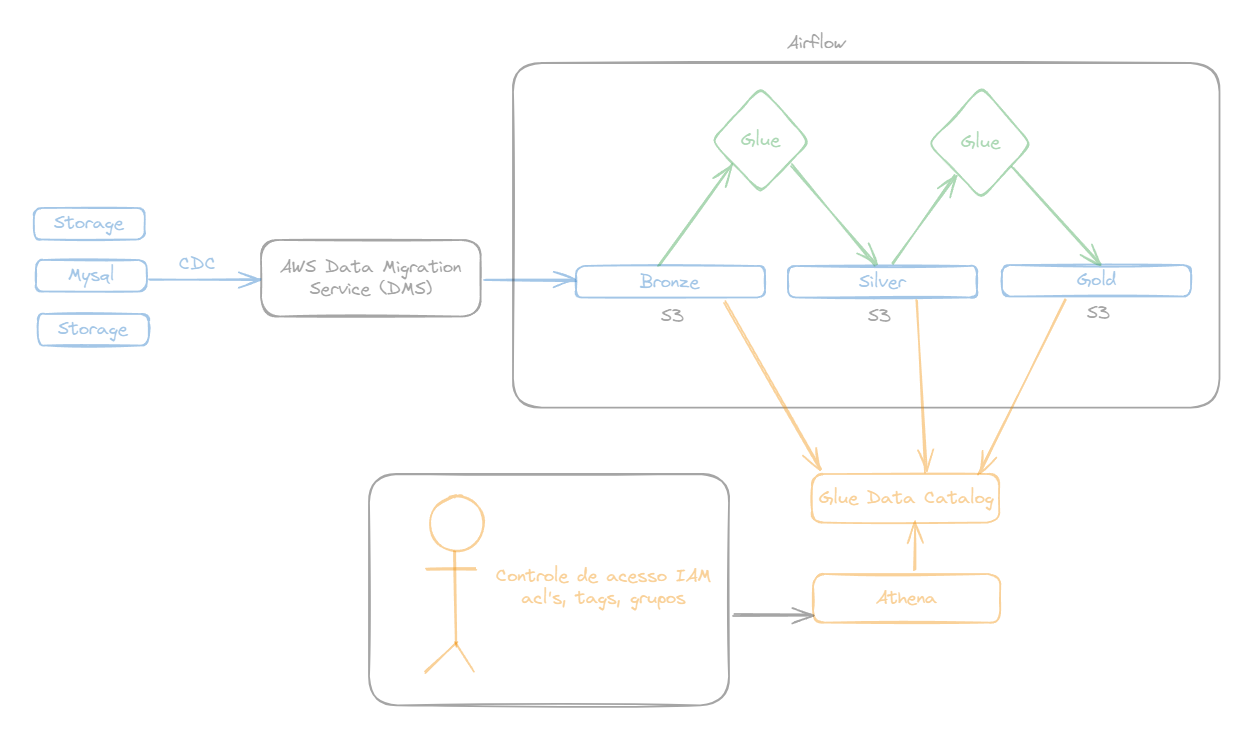
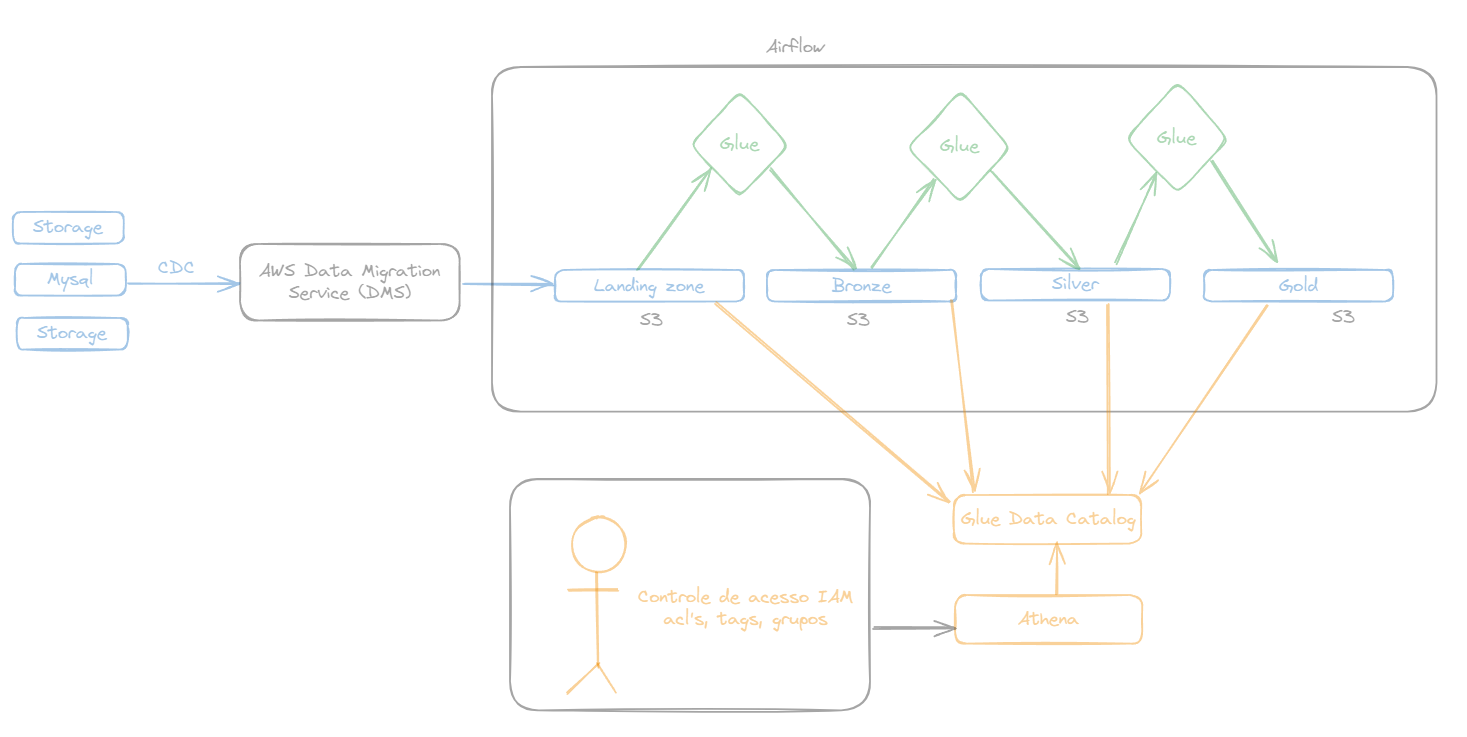
readme modificado

diff --git a/README.md b/README.md
@@ -1,162 +1,112 @@
-# Teste Prático para Engenharia de Dados
+# 🛠 Projeto de Engenharia de Dados 
 
-## Introdução
+Este projeto implementa um pipeline completo de Engenharia de Dados utilizando PySpark e serviços AWS. A arquitetura segue o modelo de **camadas (bronze, silver e gold)**, utilizando uma **Landing Zone**.
 
-O teste é destinado a avaliar as habilidades práticas como Engenheir@ de dados
-
-**Itens do teste:**
-1. ETL
-2. Análise dos dados
-3. Desenho de Arquitetura para ingestão de dados batch
-4. Implementação de um Data quality
-5. Desenvolvimento de testes unitários
-6. Infra as Code (IaC)
-
-## Fork
-Realize um fork do repositorio e após a conclusão submeta um pull request. Através do PR que as respostas serão revisadas.
-
-## Sugestão de estrutura dos arquivos de resposta
-```bash
-├── 1.ETL/
-│   └── script.py
-├── 2.AnaliseDados/
-│   └── analise.txt
-├── 3.DesenhodeArquitetura/
-│   ├── desenho.jpg
-│   └── explicacao.txt
-├── 4.DataQuality/
-│   └── script_data_quality.py
-├── 5.TesteUnitario/
-│   ├── unit_test.py
-│   └── resultados.txt
-└── 6.InfraAsCode/
-    └── script.tf
- ```
-
-## Docker
-Disponibilizamos também um docker compose para criação de um ambiente spark para desenvolvimento na própria maquina, a utilização não é obrigatória.
-
-## Desafios
-
-### 1. ETL
-
-#### Descrição
-
-Utilize o arquivo `clientes_sinteticos.csv`.
-
-Deverá ser gerado um único script que irá escrever em 2 buckets da AWS, um deles Bronze e o outro Silver.
-
-Ambos os arquivos escritos no bucket Bronze e Silver devem estar acessíveis atraves do Glue Data Catalog, o schema de cata tabela pode ser definido por você mas considere que ambas as tabelas já foram criadas(nao a necessidade de criacao). A partição física devera ser a data de processamento e o nome da particao será **anomesdia**, lembre que além da partição física será necessario criar a partição lógica na tabela.
-
-Passos:
-- Especifique um schema para o dataset.
-- Trate os nomes dos clientes para que fique todos com letra maiuscula
-- Renomeie a coluna telefone_cliente para num_telefone_cliente
-- Realize a escrita do dado no bucket s3://bucket-bronze/tabela_cliente_landing
-- Deduplique o dataset mantendo sempre somente a ultima data de atualizacao do cadastro de cada cliente 
-- Trate a coluna de telefone de modo a permitir somente valores que sigam o padrao (NN)NNNNN-NNNN os demais devem ficar nulos
-- Realize a escrita do dado no bucket s3://bucket-silver/tb_cliente
 ---
 
-### 2. Análise dos dados
+## Visão Geral
 
-Utilize o arquivo `clientes_sinteticos.csv`.
-#### Descrição
+- **Origem dos dados:** CSV iniciamente local em /datasets/clientes_sinteticos.csv que popula o S3 etlproj-landing-zone/arquivo/ via terraform
+- **Destino:** Data Lake em Amazon S3
+- **Transformação:** PySpark com AWS Glue
+- **Armazenamento:** Arquitetura em camadas (lading-zone → bronze → silver → gold)
+- **Catálogo de dados:** Crawlers + AWS Glue Data Catalog
+- **Consultas:** AWS Athena
 
-- Identifique os 5 clientes que mais sofreram atualizações na base.
-- Calcule a média de idade dos clientes.
 ---
 
-### 3. Desenho de Arquitetura
+## Etapas do Projeto
 
-#### Descrição
+### 1. `1.ETL/script.py`
+- **Objetivo:** realizar o pipeline de extração, transformação e carga.
+- Leitura do arquivo `clientes_sinteticos.csv` da Landing Zone (S3).
+- Escrita na camada **bronze** com tratamento para deixar o nome dos clientes com letra maiuscula e renomear a coluna de telefone do cliente.
+- Deduplicação para a camada **silver** tratativa na coluna de telefone para padrão (NN)NNNNN-NNNN.
+- Escrita em Parquet particionado por `anomesdia` com acesso via Glue Catalog
+
+---
+
+### 2. `2.AnaliseDados/analise.py`
+- **Objetivo:** executar análises sobre o conjunto tratado.
+- Top 5 clientes com mais atualizações
+- Média de idade dos clientes ativos
+
+---
+
+### 3. `3.DesenhodeArquitetura/`
+- **Objetivo:** apresentar visualmente a arquitetura da solução a seguir:
 
 Proponha uma arquitetura na AWS para coletar dados de cadastros de clientes em um banco MySQL. Esses dados devem ser persistidos em um datalake que usa a arquitetura medalhão:
 
-- Desenhe um sistema para coletar dados do banco MySQL realizando CDC.
-- O processamento e escrita deve ser projetado para os 3 niveis do lake (bronze, silver e gold)
-- Além do armazenamento do dado será necessaria uma governança de acesso a nível de usuário
----
+Desenhe um sistema para coletar dados do banco MySQL realizando CDC.
+O processamento e escrita deve ser projetado para os 3 niveis do lake (bronze, silver e gold)
+Além do armazenamento do dado será necessaria uma governança de acesso a nível de usuário
+ 
+![Desenho da Arquitetura](desenhoArquitetura/desenho_arquitetura.png)
 
-### 4. Data Quality
-
-#### Descrição
-
-A qualidade dos dados é fundamental para garantir que as análises e os insights derivados sejam confiáveis. 
-
-- Considere que voce está implementando o processo de Qualidade dos dados na camada Silver do lake na tabela de clientes que você ja preparou anteriormente.
-- Crie um script de modo a validar as dimensões de qualidade que você julgue necessario para esse dataset.
----
-
-### 5. Teste Unitário
-
-#### Descrição
-
-Os testes unitários são fundamentais para garantir a robustez e confiabilidade do código, permitindo identificar e corrigir bugs e erros antes que eles atinjam o ambiente de produção. Para este desafio:
-
-- Escolha uma das funções ou classes que você implementou nas etapas anteriores deste teste.
-- Escreva testes unitários para esta função ou classe. Os testes devem cobrir:
-  - Casos padrão ou "happy path".
-  - Casos de borda ou extremos.
-  - Situações de erro ou exceção.
-- Utilize uma biblioteca de testes de sua escolha (como `pytest`, `unittest`, etc.).
----
-
-### 6. Infra as Code
-#### Descrição
-- Desenvolva um script Terraform que crie um Glue Job. Abaixo alguns parametros que o serviço deve ter.
-- Parametros
-  - Script : script desenvolvido na etapa 2
-  - Versão: 5
-  - Workers: 10
-  - Tipo de Máquina: G1x
-  - Tag: 
-     - Nome: projeto  
-     - Valor: teste_eng_dados
-
-
-
-# O que é esperado do candidato
-
-Caro candidato, o teste prático proposto visa avaliar suas habilidades, competências e abordagem como Engenheiro de Dados. Aqui está o que esperamos de você:
-
-## 1. Atenção aos Detalhes
-
-Verifique cuidadosamente cada etapa do teste, garantindo que nenhum detalhe foi perdido. Em Engenharia de Dados, muitas vezes os detalhes são cruciais para o sucesso de um projeto.
-
-## 2. Qualidade do Código
-
-Esperamos que o código que você produza seja claro, legível e bem organizado. Isso inclui:
-- Uso adequado de funções, classes e módulos.
-- Comentários relevantes.
-- Nomes significativos para variáveis e funções.
-- Performance utilizando o Framework Spark
-
-## 3. Eficiência
-
-Mais do que apenas escrever um código funcional, é importante demonstrar preocupação com a eficiência. Leve em consideração a performance da sua solução, especialmente em cenários que envolvem grandes volumes de dados.
-
-
-## 4. Familiaridade com Ferramentas e Tecnologias
-
-Este desafio também tem o objetivo de verificar seu domínio sobre tecnologias como Apache Spark e AWS. Aproveite a oportunidade para mostrar como utiliza essas ferramentas na prática, de forma estratégica e eficaz.
-
-
-## 5. Arquitetura de Solução
-
-Na parte de Arquitetura, queremos entender como você projeta sistemas que sejam robustos e preparados para escalar. Avaliaremos sua atenção a pontos como resiliência, custo-benefício, manutenção e crescimento da solução.
-
-
-## 6. Capacidade de Trabalhar de Forma Independente
-
-Você pode e deve consultar fontes externas, mas queremos ver como você se organiza, toma decisões e resolve problemas com os recursos disponíveis, demonstrando autonomia.
-
-
-## 7. Comunicação
-
-Além da parte técnica, valorizamos sua habilidade de explicar suas decisões. Ao final do teste, será importante justificar suas escolhas e descrever seu raciocínio de forma clara e objetiva.
-O propósito do teste vai além de respostas certas ou erradas. Queremos entender como você pensa, resolve problemas e se envolve com a área de Engenharia de Dados. Estamos empolgados para conhecer o seu trabalho!
 
 ---
 
-Boa sorte!
+### 4. `4.DataQuality/script_data_quality.py`
+- **Objetivo:** validar as dimensões de qualidade dos dados na camada Silver
+- Validações aplicadas:
+  - Completude: Verifica se campos obrigatórios estão nulos
+  - Unicidade: Verifica cod_cliente duplicado
+  - Acurácia: Validação de formato de telefone
+  - Consistência: Validação de valores negativos em vl_renda
+  - Validade: Nomes inválidos + datas futuras
+
+---
+
+### 5. `5.TesteUnitario/`
+- **Objetivo:** validar funções críticas da transformação
+- Testes com `unittest` para funções como limpeza de nome, validação de telefone
+- Casos cobertos:
+  - Happy Path
+  - Casos extremos (valores nulos, espaços, repetições)
+  - Casos inválidos
+
+---
+
+### 6. `6.InfraAsCode/`
+-  **Objetivo:** provisionar infraestrutura na AWS via Terraform
+- Criação de buckets (landing-zone, bronze, silver, scripts)
+- Criação de Glue Job, Glue Crawlers
+- Políticas de IAM
+- Arquivos:
+  - `glue.tf`: job, crawler, banco de dados Glue
+  - `storage.tf`: buckets, ACLs e criptografia
+  - `iam.tf`: roles, policies e acessos
+
+---
+
+## 💻 Execução Local (Jupyter Notebook)
+
+### Pré-requisitos
+- Python 3.9+
+- Java 11 ou superior
+- Spark 3.3+
+- Hadoop AWS, boto3, delta-spark
+- AWS CLI configurado
+
+### Etapas
+
+```bash
+# 1. Ative o ambiente
+python -m venv venv
+venv\Scripts\activate
+
+# 2. Instale os pacotes
+pip install -r requirements.txt
+
+# 3. Execute o terraform
+cd terraform
+terraform init
+terraform plan
+terraform apply
+
+# 4. Execute os scripts (modo local caso queira um teste local)
+python 1.ETL/script.py
+python 2.AnaliseDados/analise.py
+python 4.DataQuality/script_data_quality.py
+python 5.TesteUnitario/unit_test.py
